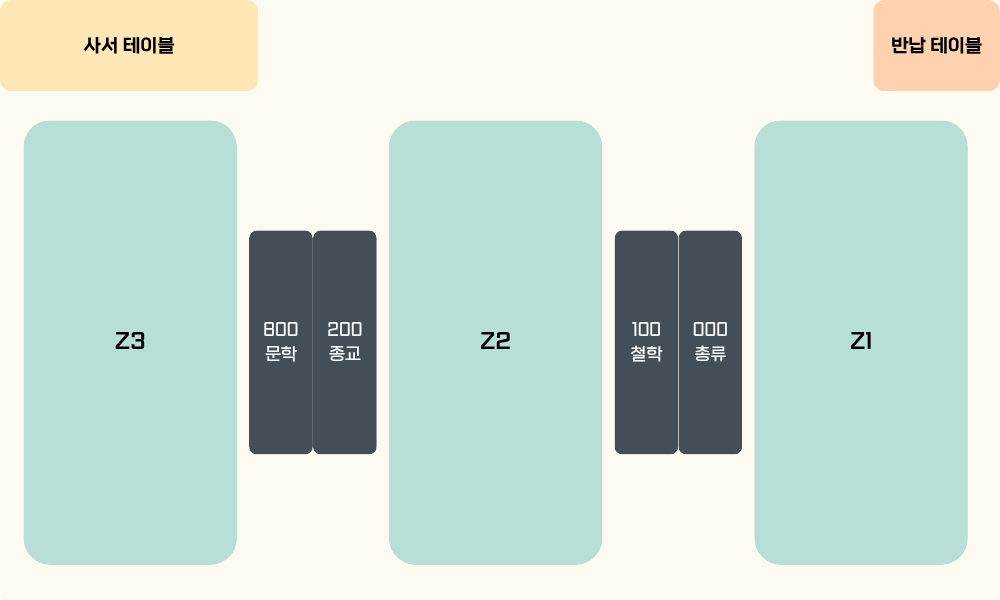
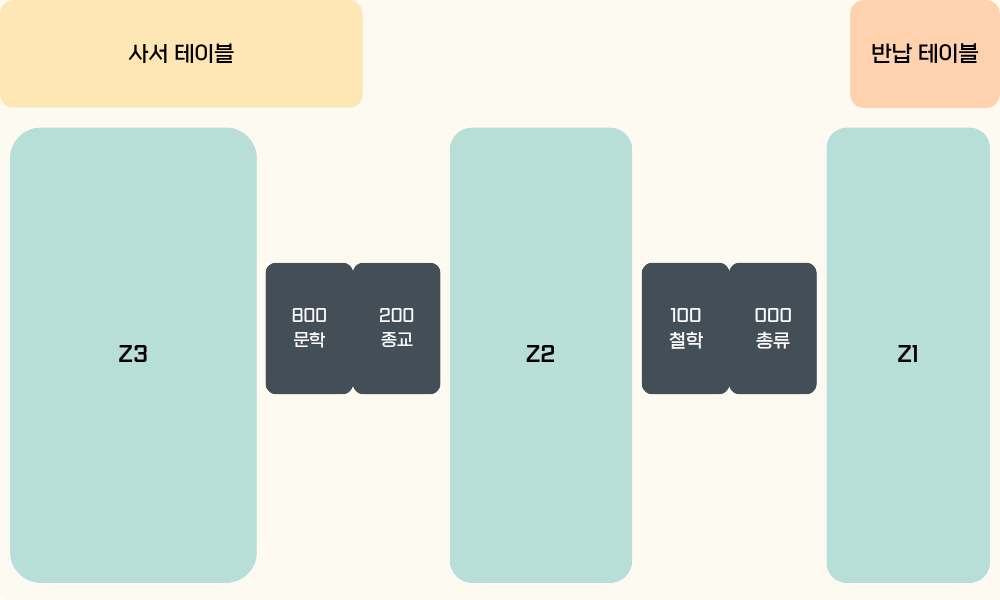
[feat] SLAM 실측 평면도 반영 및 좌표 재측정
- map.png를 SLAM 실측 기반 신판으로 교체 (1000x600)
- 통로 3개·테이블 2개·서가 4면·정차점 6개를 캔버스 픽셀 스캔 실측값으로 갱신
- 사서 테이블 정차점(테이블 오른쪽 끝 아래)이 구역 밖 흰 바닥이 됨 —
  자유 좌표 이동이라 허용, 정차점 불변식을 '구역 안'에서 '장애물 밖'으로 완화
  (서가 정차점은 여전히 해당 통로 안을 강제)

Changed region(s): [[0.0, 0.0, 1.0, 0.99], [0.093, 0.54, 0.155, 0.6], [0.899, 0.57, 0.93, 0.6]]

diff --git a/frontend/src/features/cart-map/model/zones.ts b/frontend/src/features/cart-map/model/zones.ts
@@ -9,8 +9,9 @@
  * 좌표는 모두 그림 좌상단 기준 %다. %로 두면 그림의 해상도가 바뀌어도, 또 BE 지도 메타
  * (imageWidth·imageHeight)와 그림의 픽셀 크기가 달라도 그대로 쓸 수 있다.
  *
- * 값은 assets/map.png(1000×600)에서 색 영역의 바운딩 박스를 캔버스 픽셀 스캔으로 측정해 넣었다
- * (청록=통로, 노랑·주황=테이블, 2026-08-07). **그림을 교체하면 이 파일의 좌표도 함께 갱신해야 한다.**
+ * 값은 assets/map.png(1000×600, SLAM 실측 기반 신판 2026-08-07)에서 색 영역의 바운딩 박스를
+ * 캔버스 픽셀 스캔으로 측정해 넣었다 (청록=통로, 노랑·주황=테이블, 진회색=서가).
+ * **그림을 교체하면 이 파일의 좌표도 함께 갱신해야 한다.**
  */
 
 /** 구역 코드 — 서버 구역(MAP-02)과 짝을 맞추는 키. 배열 순서가 화면의 구역 순서(1·2·3구역)다 */
@@ -36,9 +37,9 @@ export interface ZoneRect {
  * 통로 사이의 어두운 서가(책장 면)와 사서·반납 테이블은 카트가 지나갈 수 없어 클릭 영역이 아니다.
  */
 export const ZONE_RECTS: readonly ZoneRect[] = [
-  { left: 75.5, top: 20.2, width: 21.2, height: 73.8 }, // Z1 — 우측 통로 (000 총류 서가 앞)
-  { left: 38.9, top: 20.2, width: 21.2, height: 73.8 }, // Z2 — 중앙 통로 (100 철학·200 종교 서가 앞)
-  { left: 2.4, top: 20.2, width: 21.2, height: 73.8 }, // Z3 — 좌측 통로 (800 문학 서가 앞)
+  { left: 82.7, top: 21.3, width: 16.2, height: 75.7 }, // Z1 — 우측 통로 (000 총류 서가 앞)
+  { left: 45.0, top: 21.3, width: 18.1, height: 75.7 }, // Z2 — 중앙 통로 (100 철학·200 종교 서가 앞)
+  { left: 1.0, top: 21.3, width: 24.5, height: 75.7 }, // Z3 — 좌측 통로 (800 문학 서가 앞)
 ];
 
 /** 지도 패널 내 각 구역의 카트 정차 좌표 (% 단위, 클릭 영역의 중심) */
@@ -49,12 +50,12 @@ export const ZONE_POSITIONS: readonly { x: number; y: number }[] = ZONE_RECTS.ma
 
 /**
  * 통로 세 개를 잇는 상단 통로의 y 좌표 (%).
- * 평면도에서 테이블 아래·통로 위의 빈 바닥이다 — 통로 간 이동은 이 높이를 지나간다.
+ * 평면도에서 테이블 아래(17.8%)·통로 위(21.3%) 사이의 빈 바닥이다 — 통로 간 이동은 이 높이를 지나간다.
  */
-export const CORRIDOR_Y = 18;
+export const CORRIDOR_Y = 19.5;
 
 /** 카트 대기 지점(상단 통로의 오른쪽, 반납 테이블 왼쪽 빈 바닥)의 좌표 (%) — 이동·추종 전 초기 위치 */
-export const START_POSITION: { x: number; y: number } = { x: 80, y: 18 };
+export const START_POSITION: { x: number; y: number } = { x: 80, y: 19.5 };
 
 /**
  * 지도 위 고정 목적지 — 장애물(서가·테이블) 위 클릭을 **정해진 한 지점**으로 바꾸는 버튼.
@@ -85,47 +86,48 @@ export const MAP_LANDMARKS: readonly MapLandmark[] = [
   {
     key: 'librarianTable',
     name: '사서 테이블',
-    rect: { left: 0, top: 0, width: 25.7, height: 15.0 },
-    // 테이블 오른쪽 끝 아래 — Z3 통로의 우상단
-    stop: { x: 22.5, y: 23.0 },
+    rect: { left: 0, top: 0, width: 36.2, height: 17.8 },
+    // 테이블 오른쪽 끝 바로 아래 — 흰 바닥(구역 밖)이지만 자유 좌표 이동이라 목적지가 될 수 있다
+    stop: { x: 35.0, y: 23.0 },
     arrival: 'toast',
   },
   {
     key: 'returnTable',
     name: '반납 테이블',
-    rect: { left: 87.4, top: 0, width: 12.6, height: 15.0 },
+    rect: { left: 85.0, top: 0, width: 15.0, height: 17.8 },
     // 테이블 아래쪽 끝 아래 — Z1 통로의 상단
-    stop: { x: 93.7, y: 23.0 },
+    stop: { x: 92.5, y: 23.0 },
     arrival: 'toast',
   },
-  // 서가 4면 — 클릭 영역은 어두운 서가 블록의 해당 면 절반, 정차점은 그 면이 바라보는 통로 안.
-  // (800·200이 한 블록, 100·000이 한 블록. 왼쪽 면은 왼쪽 통로를, 오른쪽 면은 오른쪽 통로를 본다)
+  // 서가 4면 — 클릭 영역은 어두운 서가 블록의 해당 면 절반, 정차점은 그 면이 바라보는 통로 안
+  // (경계에서 5%≈0.5m 여유). 800·200이 한 블록, 100·000이 한 블록이고 두 면이 맞붙어 있어
+  // 블록 가운데에서 나눈다. 왼쪽 면은 왼쪽 통로를, 오른쪽 면은 오른쪽 통로를 본다.
   {
     key: 'shelf800',
     name: '800 문학 서가',
-    rect: { left: 24.9, top: 38.5, width: 6.2, height: 37.0 },
-    stop: { x: 18.6, y: 57.0 }, // Z3 통로 오른쪽, 서가 앞
+    rect: { left: 26.6, top: 43.8, width: 8.6, height: 21.7 },
+    stop: { x: 20.5, y: 54.7 }, // Z3 통로 오른쪽, 서가 앞
     arrival: 'zone',
   },
   {
     key: 'shelf200',
     name: '200 종교 서가',
-    rect: { left: 31.3, top: 38.5, width: 6.2, height: 37.0 },
-    stop: { x: 43.9, y: 57.0 }, // Z2 통로 왼쪽, 서가 앞
+    rect: { left: 35.3, top: 43.8, width: 8.6, height: 21.7 },
+    stop: { x: 50.0, y: 54.7 }, // Z2 통로 왼쪽, 서가 앞
     arrival: 'zone',
   },
   {
     key: 'shelf100',
     name: '100 철학 서가',
-    rect: { left: 61.5, top: 38.5, width: 6.2, height: 37.0 },
-    stop: { x: 55.1, y: 57.0 }, // Z2 통로 오른쪽, 서가 앞
+    rect: { left: 64.2, top: 43.8, width: 8.6, height: 21.7 },
+    stop: { x: 58.1, y: 54.7 }, // Z2 통로 오른쪽, 서가 앞
     arrival: 'zone',
   },
   {
     key: 'shelf000',
     name: '000 총류 서가',
-    rect: { left: 67.9, top: 38.5, width: 6.2, height: 37.0 },
-    stop: { x: 80.5, y: 57.0 }, // Z1 통로 왼쪽, 서가 앞
+    rect: { left: 72.9, top: 43.8, width: 8.7, height: 21.7 },
+    stop: { x: 87.7, y: 54.7 }, // Z1 통로 왼쪽, 서가 앞
     arrival: 'zone',
   },
 ];

diff --git a/frontend/src/features/cart-map/model/zones.test.ts b/frontend/src/features/cart-map/model/zones.test.ts
@@ -87,14 +87,29 @@ describe('MAP_LANDMARKS', () => {
     point.y <= rect.top + rect.height;
 
   /**
-   * 정차점은 통로(구역) 안이어야 한다 — 통로 밖이면 서가·테이블·벽에 붙은 자리라
-   * 실물 카트가 서지 못하고 Nav2가 goal을 거부한다. 좌표를 옮기다 통로 밖으로
-   * 나가면 여기서 잡는다.
+   * 정차점은 장애물(서가·테이블) 밖의 바닥이어야 한다 — 장애물 위면 실물 카트가 서지 못하고
+   * Nav2가 goal을 거부한다. 자유 좌표 이동이라 구역 밖 흰 바닥은 허용된다(사서 테이블 정차점).
+   * 좌표를 옮기다 장애물 위로 올라가면 여기서 잡는다.
    */
-  it('정차점이 모두 어느 구역 안에 있다', () => {
+  it('정차점이 그림 안이고 어떤 장애물 위도 아니다', () => {
     MAP_LANDMARKS.forEach((landmark) => {
+      expect(landmark.stop.x).toBeGreaterThanOrEqual(0);
+      expect(landmark.stop.x).toBeLessThanOrEqual(100);
+      expect(landmark.stop.y).toBeGreaterThanOrEqual(0);
+      expect(landmark.stop.y).toBeLessThanOrEqual(100);
+      MAP_LANDMARKS.forEach((obstacle) => {
+        expect(
+          containsPoint(obstacle.rect, landmark.stop),
+          `${landmark.name}의 정차점이 ${obstacle.name} 위에 있습니다`,
+        ).toBe(false);
+      });
+    });
+  });
+
+  it('서가 정차점은 그 서가가 보는 통로(구역) 안에 있다', () => {
+    MAP_LANDMARKS.filter((landmark) => landmark.arrival === 'zone').forEach((landmark) => {
       const inside = ZONE_RECTS.some((rect) => containsPoint(rect, landmark.stop));
-      expect(inside, `${landmark.name}의 정차점이 구역 밖입니다`).toBe(true);
+      expect(inside, `${landmark.name}의 정차점이 통로 밖입니다`).toBe(true);
     });
   });
 

diff --git a/frontend/src/features/cart-map/model/zoneStore.test.ts b/frontend/src/features/cart-map/model/zoneStore.test.ts
@@ -99,10 +99,10 @@ describe('zoneStore', () => {
     });
 
     it('구역 사이 서가 위의 점은 더 가까운 쪽 구역을 준다', () => {
-      // 3구역(x 4.1~21.0)과 2구역(x 37.0~54.1) 사이 — 왼쪽에 붙은 점
-      expect(nearestZoneIndex({ x: 25, y: 50 })).toBe(2);
+      // 3구역(x 1.0~25.5)과 2구역(x 45.0~63.1) 사이 — 왼쪽에 붙은 점
+      expect(nearestZoneIndex({ x: 28, y: 50 })).toBe(2);
       // 같은 틈에서 오른쪽에 붙은 점
-      expect(nearestZoneIndex({ x: 34, y: 50 })).toBe(1);
+      expect(nearestZoneIndex({ x: 42, y: 50 })).toBe(1);
     });
 
     it('구역 위쪽 테이블 영역은 바로 아래 구역을 준다', () => {
